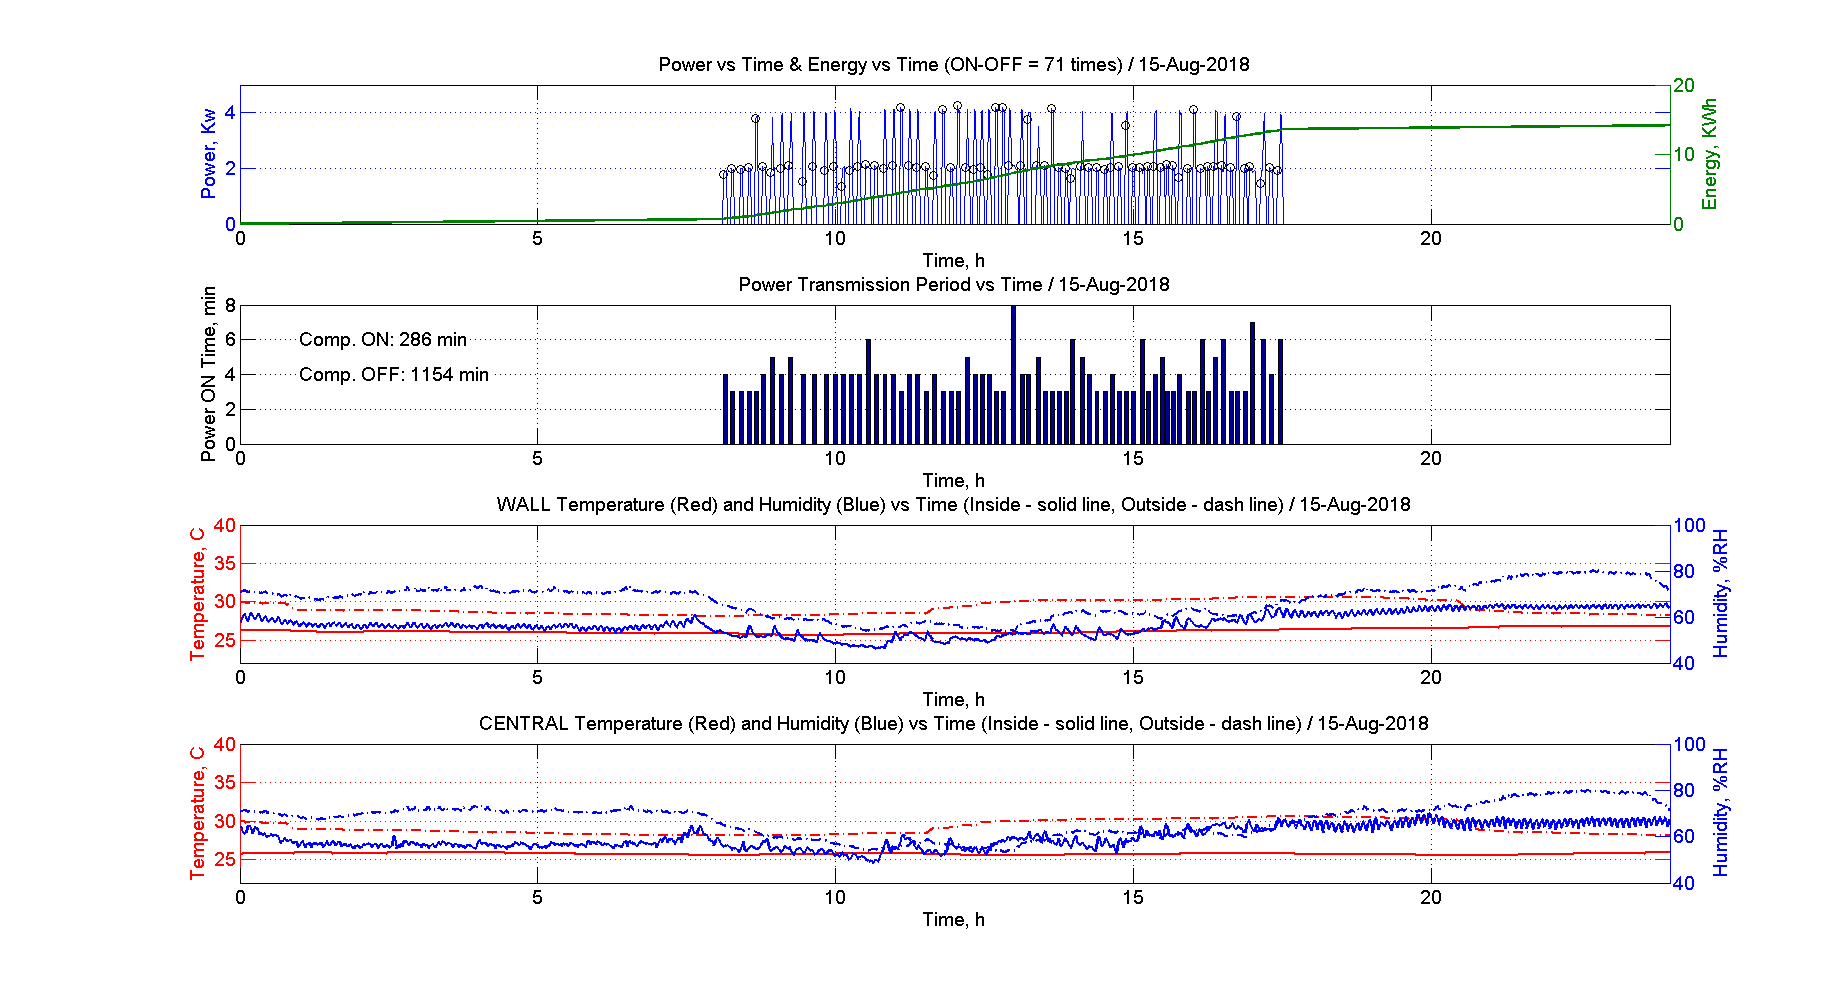
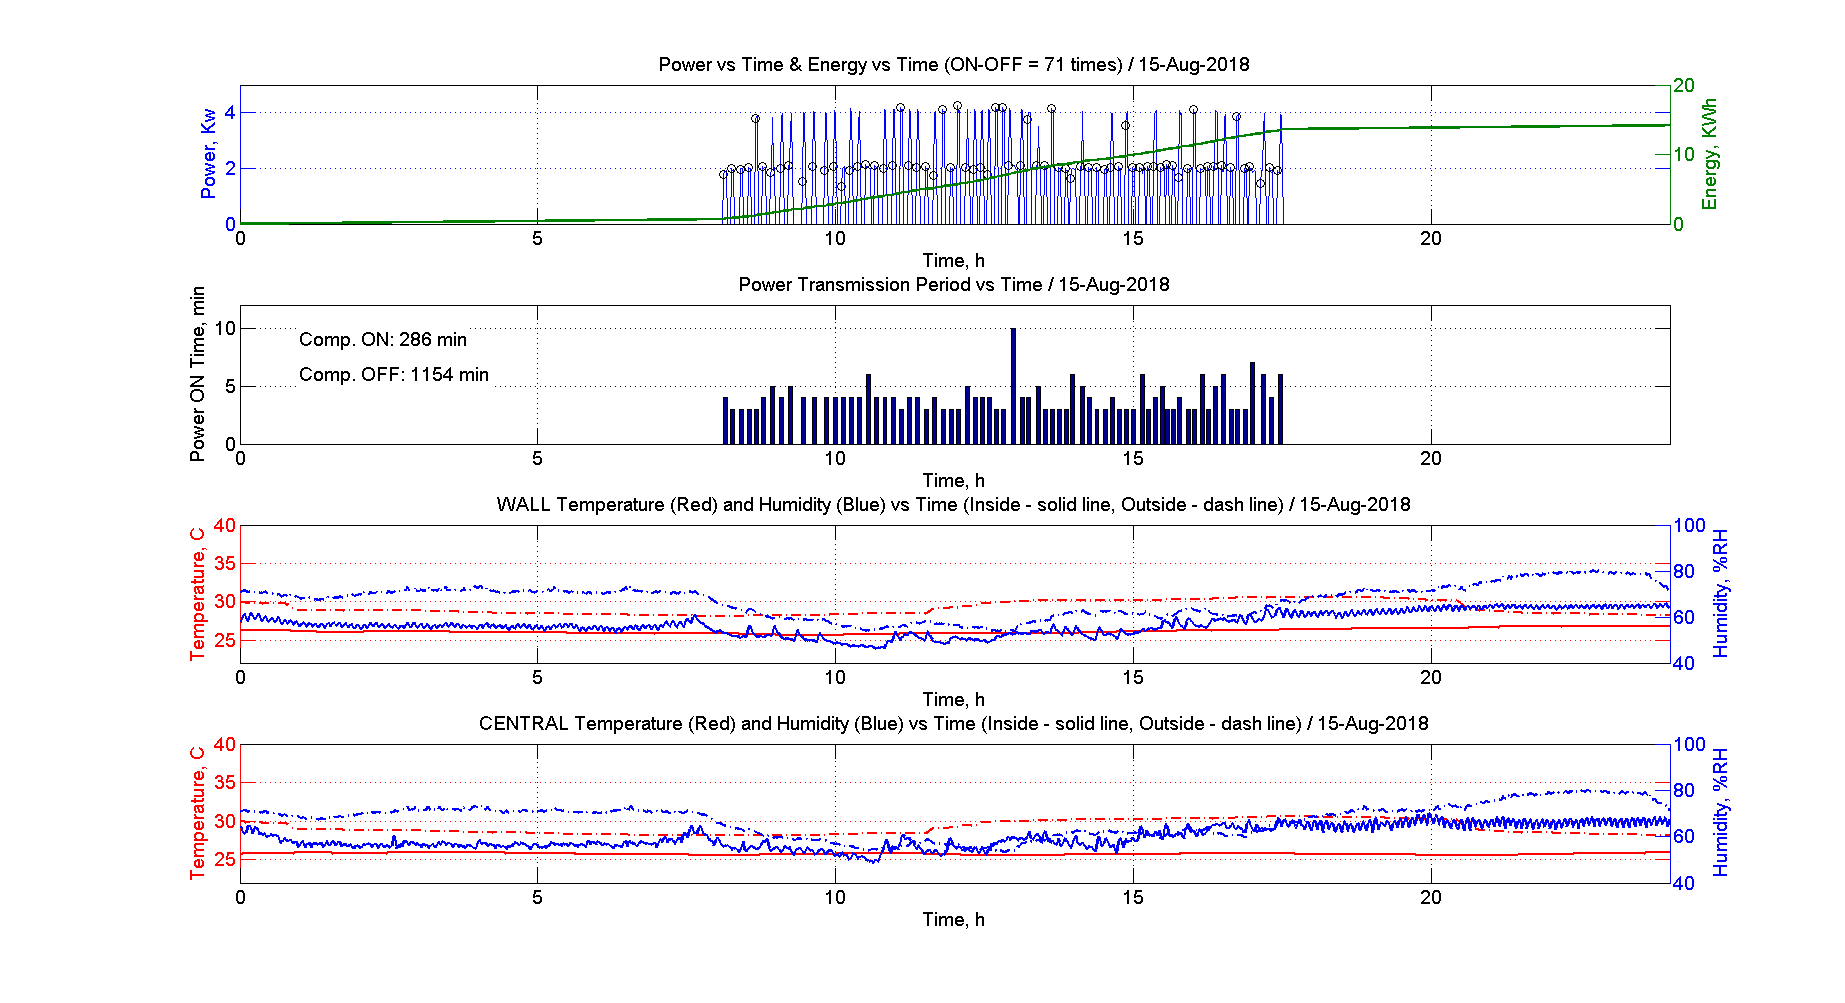
แก้ไขรูปใหม่ on time 10 นาที

Changed region(s): [[0.3707, 0.34, 0.7106, 0.4018], [0.0927, 0.2782, 0.1236, 0.4636]]

diff --git a/R410A results/result14/energybar.m b/R410A results/result14/energybar.m
@@ -1,8 +1,8 @@
 function [dEnergy] = energybar(mat_file,datetext)
 
 load(mat_file)
-eng = EATNetKwh(1:1080);
-hourly_energy = max(reshape(eng-eng(1),60,18));
+eng = EATNetKwh;
+hourly_energy = max(reshape(eng-eng(1),60,24));
 dEnergy = diff(hourly_energy);
 t = round(hhminsec(1)*24):round(hhminsec(1)*24)+length(dEnergy)-1;
 bar(t,dEnergy)
